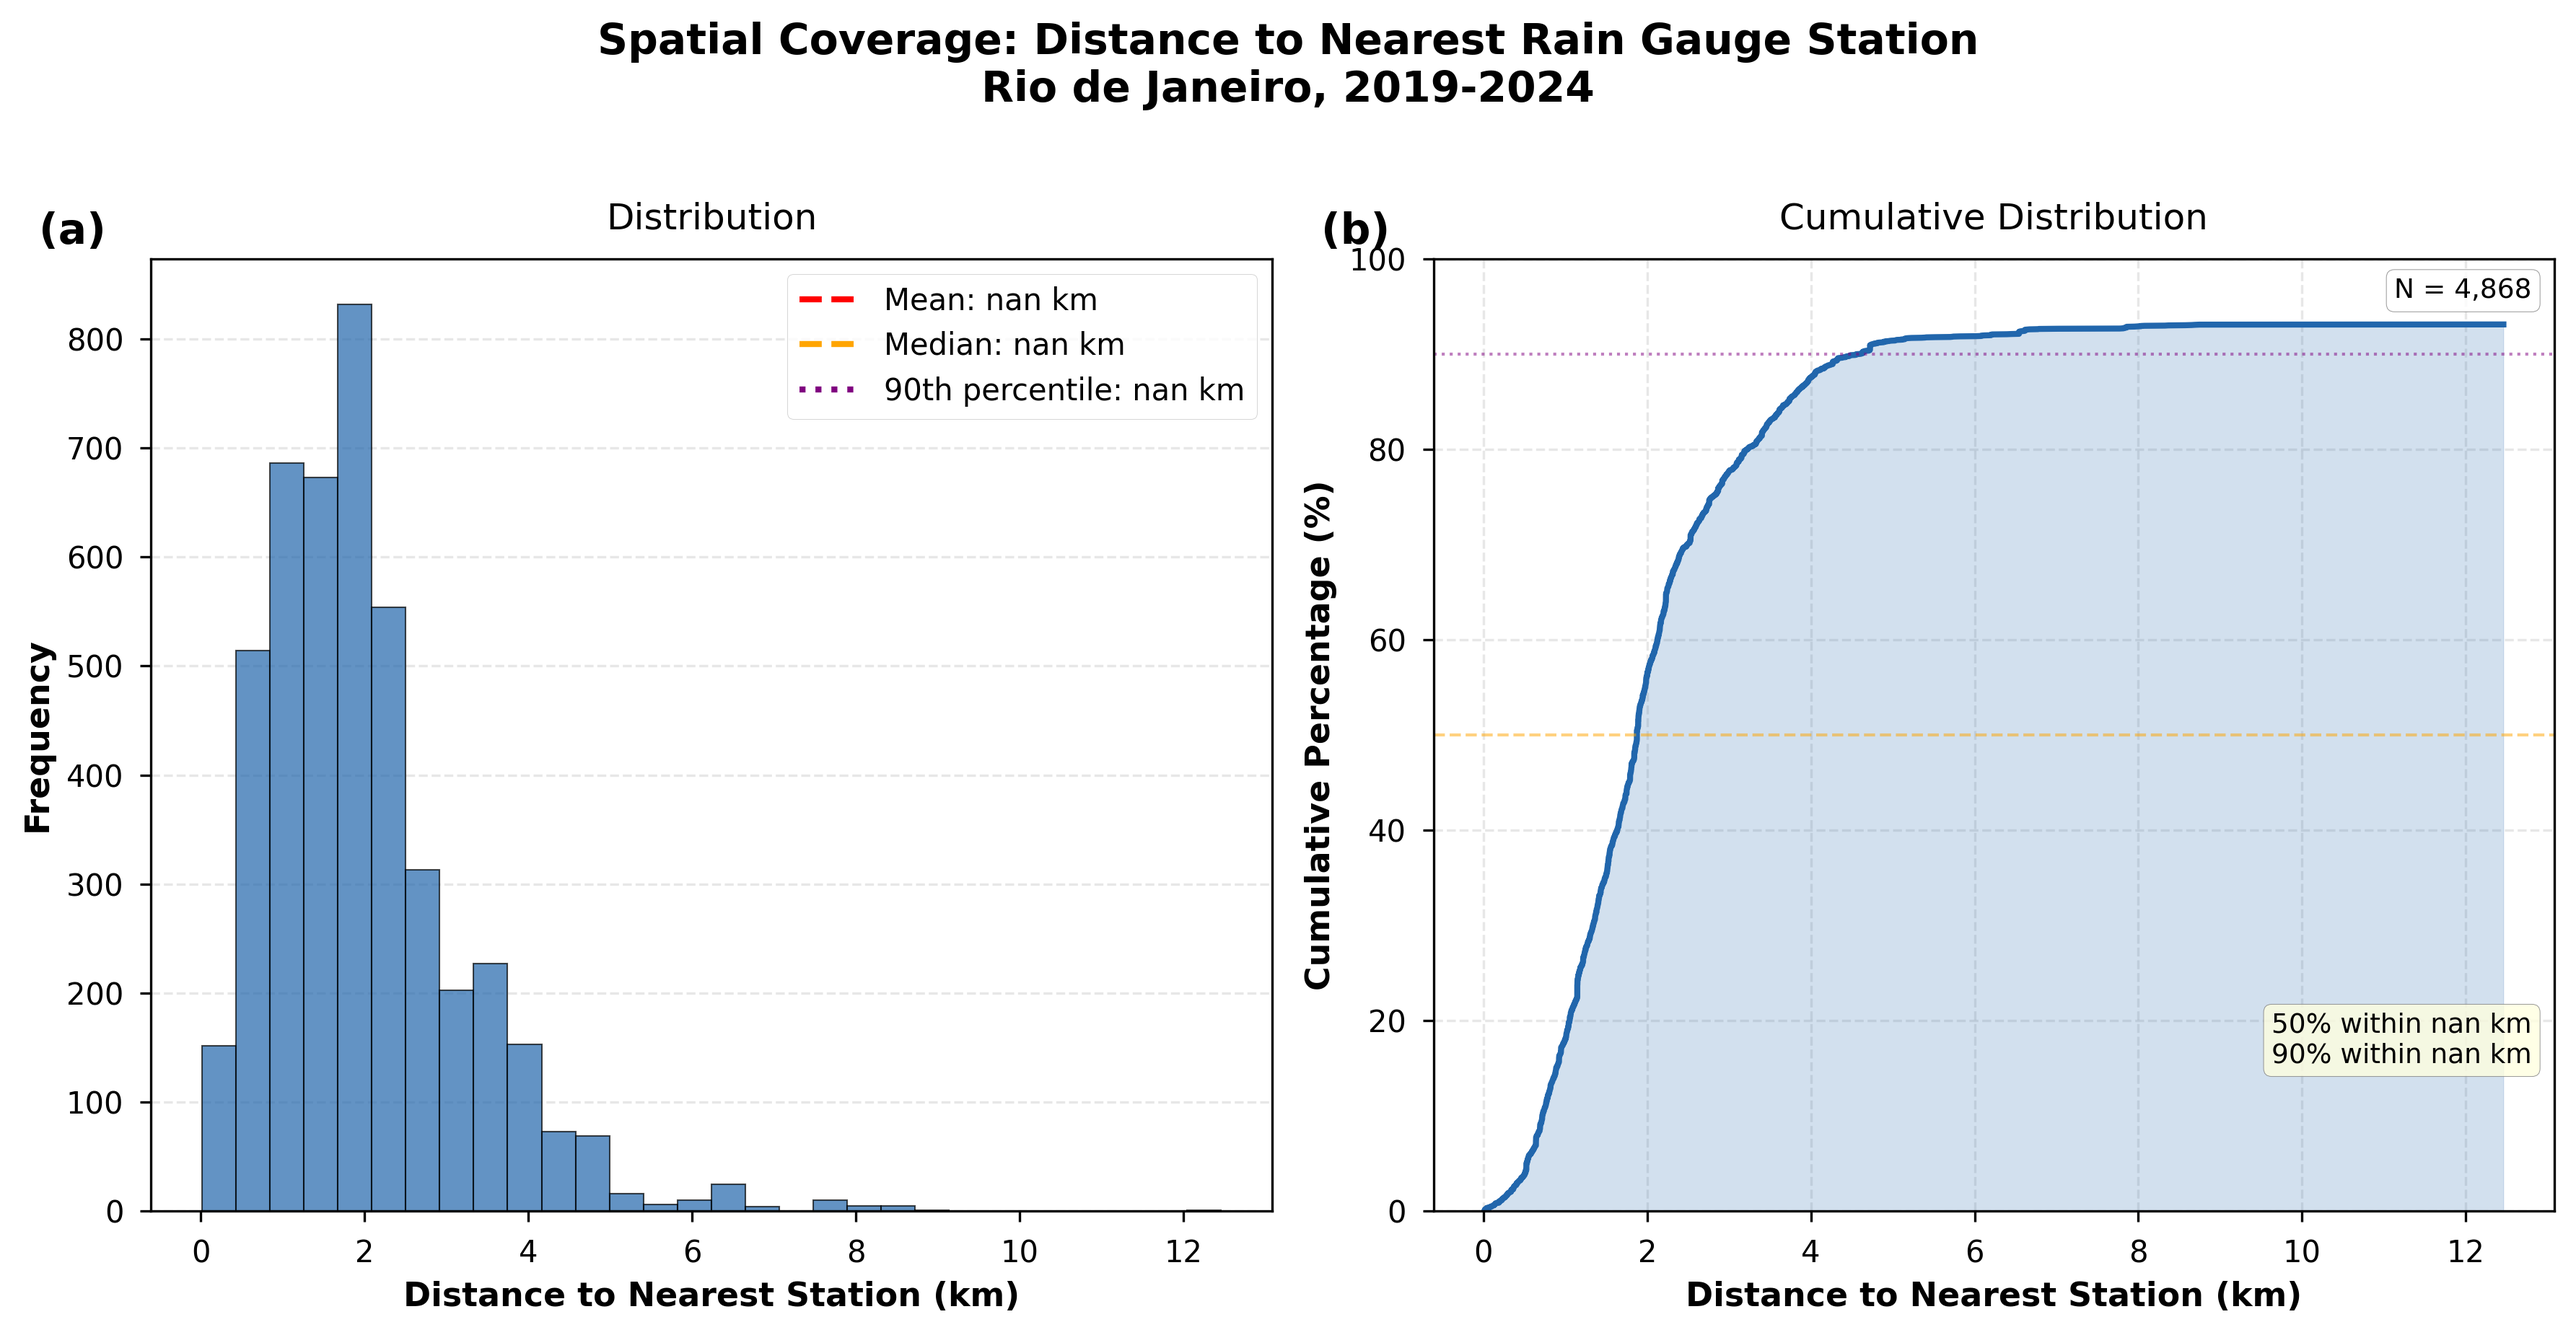
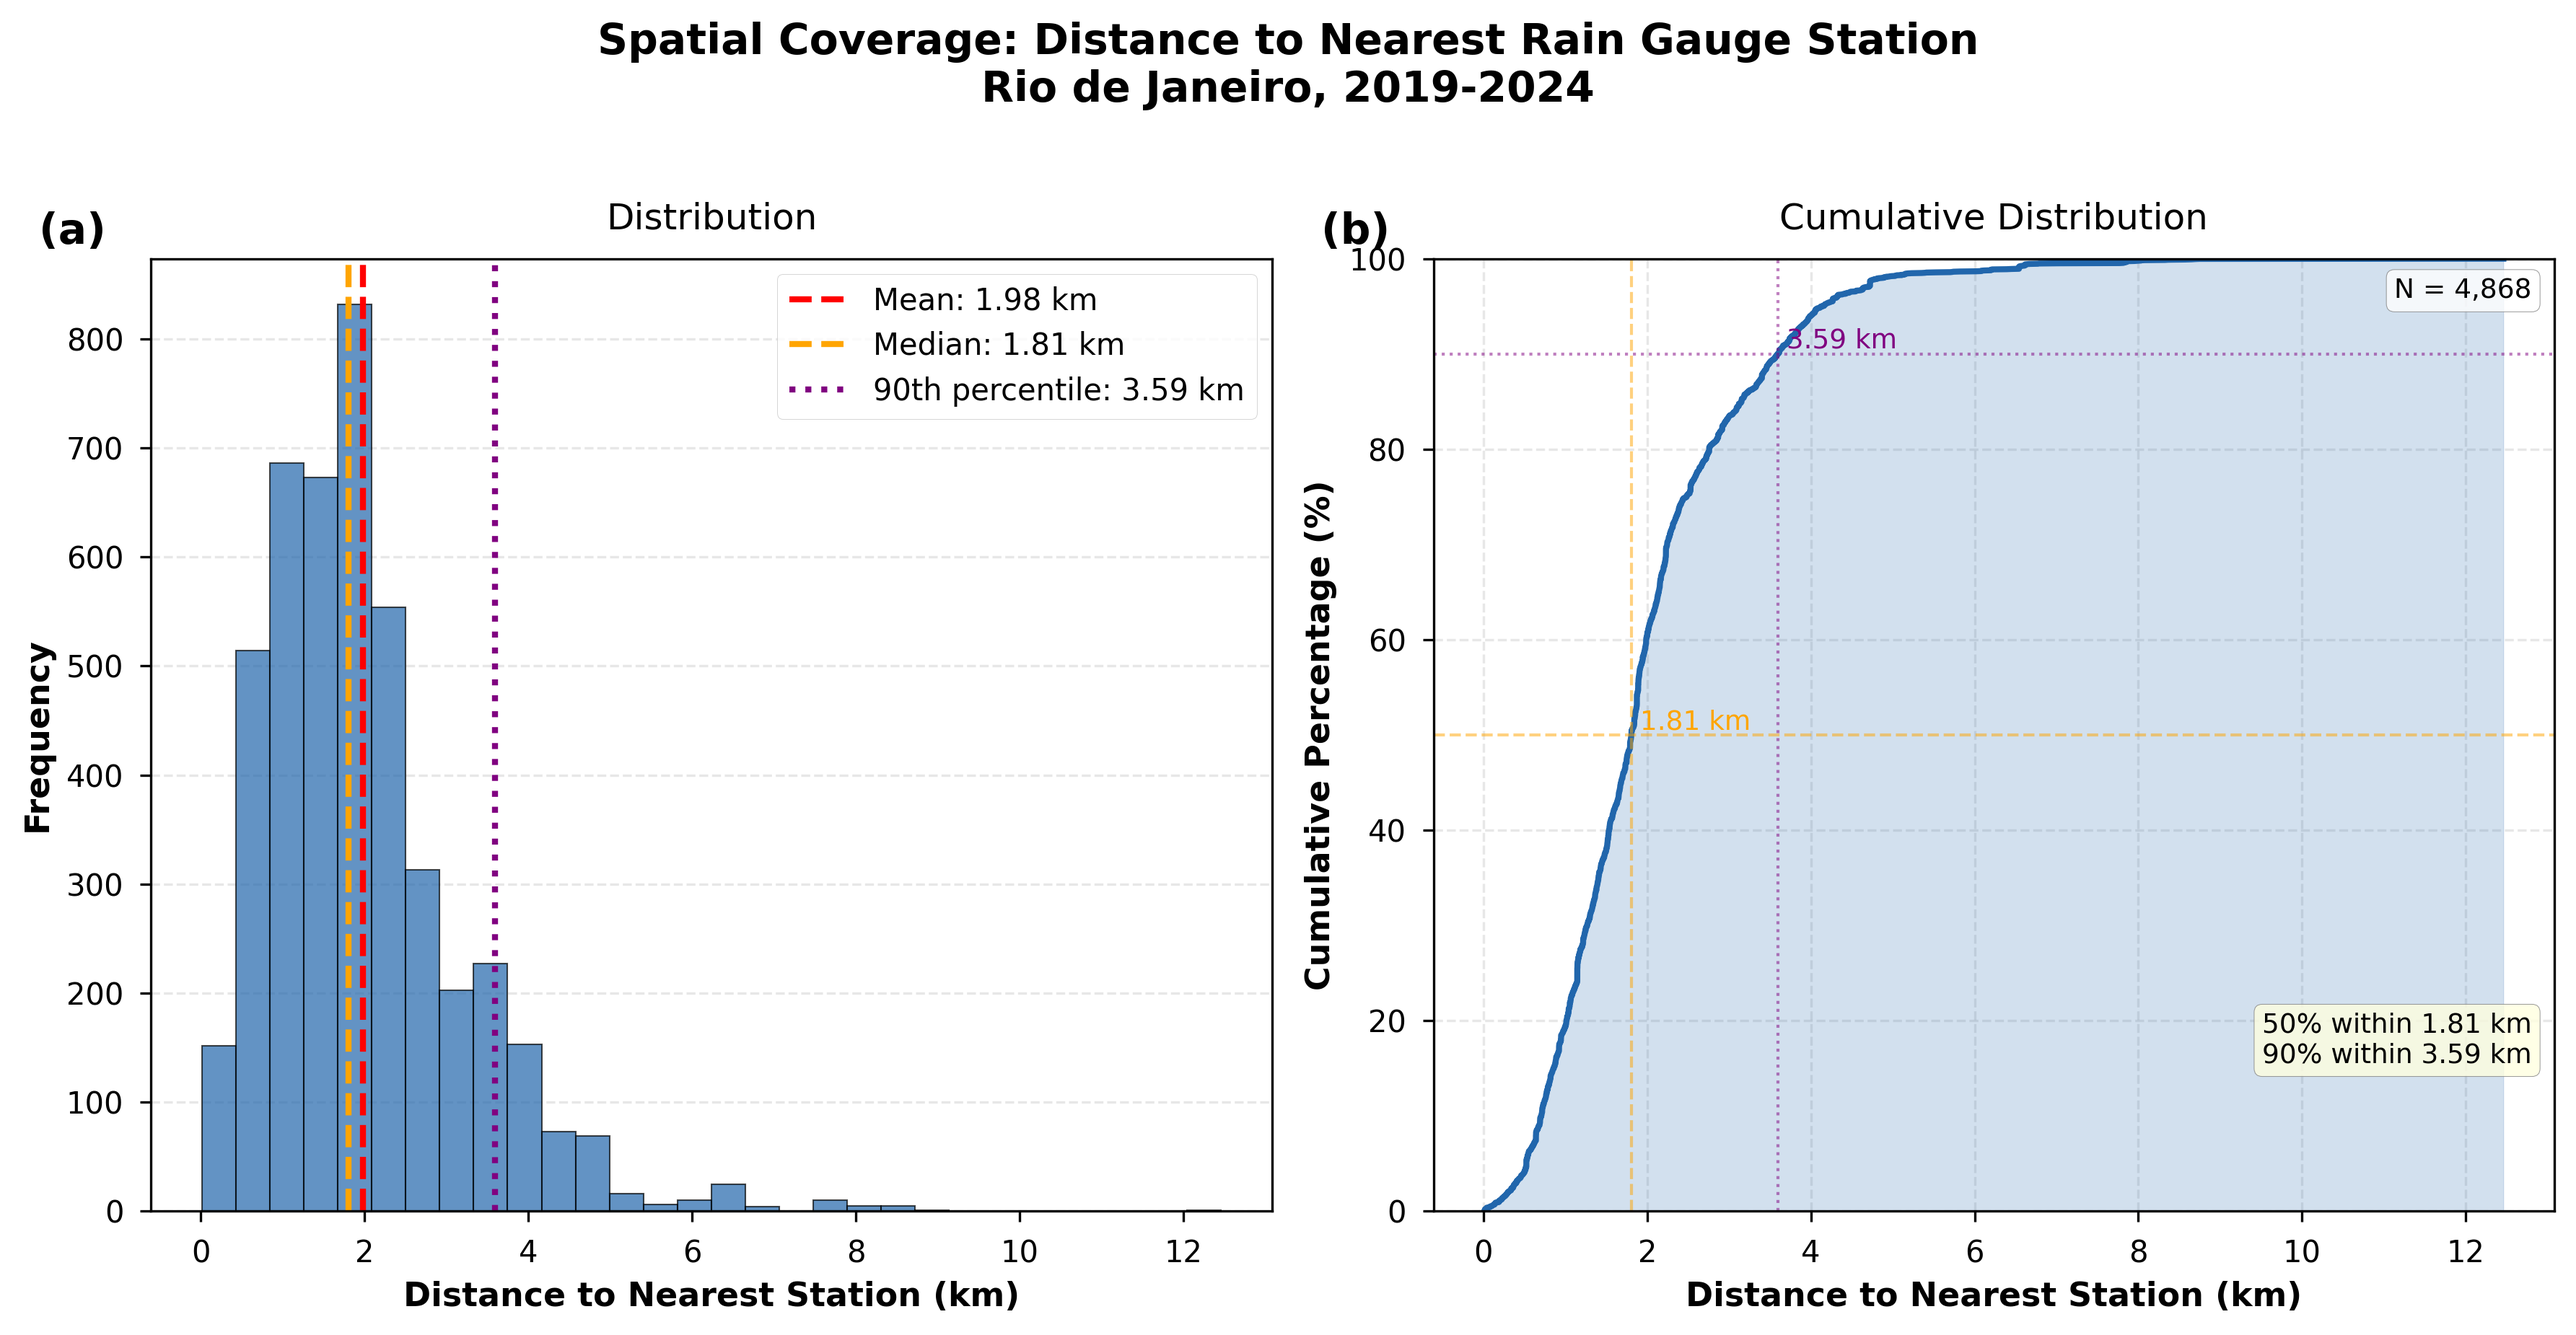
Add new default system prompt and update chart scripts for improved data handling
- Introduced a new default system prompt file.
- Updated chart_01_event_types.py to increase x-axis padding for better label visibility.
- Enhanced chart_04_spatial_coverage.py to handle NaN values in distance calculations, ensuring accurate statistics.
- Updated binary chart files to reflect recent changes.

diff --git a/scripts/charts/v1/chart_04_spatial_coverage.py b/scripts/charts/v1/chart_04_spatial_coverage.py
@@ -69,13 +69,14 @@ def create_spatial_coverage_chart(ocorrencias_gdf):
     """Create spatial coverage analysis chart with histogram and CDF"""
     setup_plot_style()
     
-    distances_km = ocorrencias_gdf['distance_km'].values
+    # Filter out NaN values before calculating statistics
+    distances_km = ocorrencias_gdf['distance_km'].dropna().values
     
     # Calculate statistics
-    mean_dist = distances_km.mean()
-    median_dist = np.median(distances_km)
-    p90_dist = np.percentile(distances_km, 90)
-    max_dist = distances_km.max()
+    mean_dist = np.nanmean(distances_km)
+    median_dist = np.nanmedian(distances_km)
+    p90_dist = np.nanpercentile(distances_km, 90)
+    max_dist = np.nanmax(distances_km)
     
     # Create figure with 2 subplots
     fig, (ax1, ax2) = plt.subplots(1, 2, figsize=FIGURE_SIZES['double'])

diff --git a/scripts/charts/v1/chart_01_event_types.py b/scripts/charts/v1/chart_01_event_types.py
@@ -60,7 +60,7 @@ def create_event_type_chart(ocorrencias):
     
     # Extend x-axis to accommodate text labels
     max_count = event_counts.values.max()
-    ax.set_xlim(0, max_count * 1.15)  # Add 15% padding for text labels
+    ax.set_xlim(0, max_count * 1.21)  # Add 15% padding for text labels
     
     # Styling
     ax.set_yticks(range(len(event_counts)))
